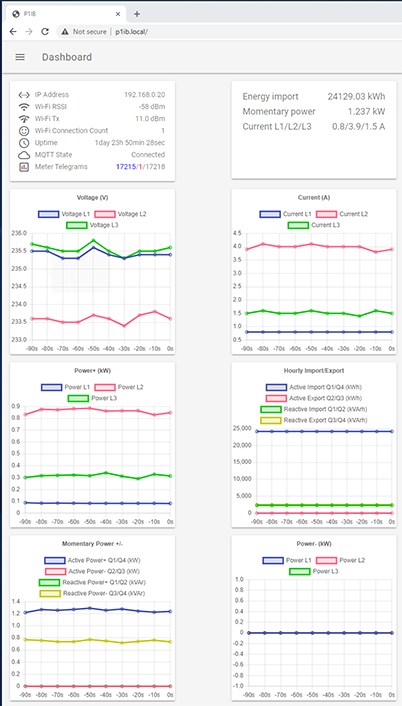
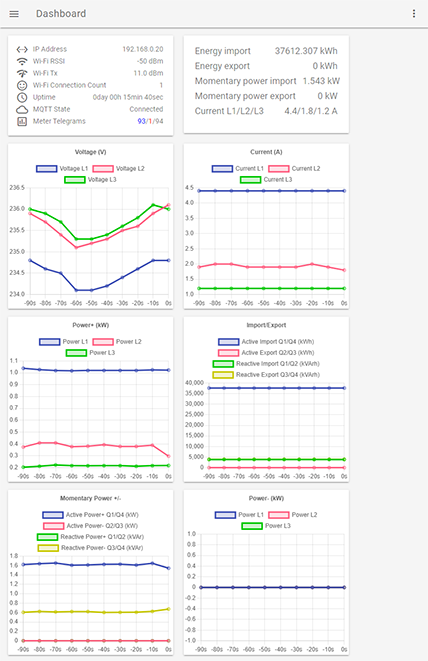
add homey app info. Update screenshots.

Changed region(s): [[0.0, 0.0, 0.9851, 1.0], [0.9552, 0.0, 0.9851, 0.0303]]

diff --git a/README.md b/README.md
@@ -3,16 +3,22 @@ P1IB (pronounced p-l-i-b) is a software (and hardware) designed to read and pars
 interface port (RJ12) and to send the result to a consumer service, for instance Home Assistant.
 
 ## Features
-- Web UI configuration.
-- Dashboard in web ui with realtime updated graphs for the majority of measurement points from the power meter.
+- Fully configurable via web UI.
+  - WiFi access point
+  - DHCP/static ip
+  - MQTT settings
+  - And lots more...
+- Dashboard in web UI with realtime updated graphs for the majority of measurement points from the power meter.
 - Supports both protocols that the Swedish meters use at this moment:
   - DLMS/COSEM AXDR/HDLC Mode E (Aidon).
-  - DLMS/COSEM ASCII Mode D (The other ones :).
+  - DLMS/COSEM ASCII Mode D (The other ones).
 - MQTT support.
 - Automatic sensor registration for Home Assistant (MQTT Auto Discovery).
 - Supports OTA firmware update via web ui (official builds fetched from this github repo).
 - Webservice with JSON response of meter data.
+- Reduced data mode (save band width, can be used for remote surveillance for instance).
 - Logging/debug through UDP to a remote computer and/or USB serial.
+- P1IB does not require any internet connection (with the exception for Over-the-air firwmare updates).
 
 ## Hardware
 The p1ib hardware comes with an RJ12 connector for connecting to the P1 HAN port of the power meter. It also includes an USB port.
@@ -24,6 +30,7 @@ Hardware can normally be bought via https://www.facebook.com/marketplace/item/28
 
 ![AMS and p1ib](images/meter.jpg?raw=true "AMS and p1ib")
 ![Hardware](images/hw_rev_d.jpg?raw=true "Hardware")
+![Case](images/case2.jpg?raw=true)
 
 ## Supported smart power meters
 Verified to work on the following meters:
@@ -54,6 +61,10 @@ Connect to Wi-Fi access point named "p1ib" without a password with your preferre
 
 4. Press the menu icon in top left corner, and enter the 'Settings' menu. Here it is possible to scan for your home Wi-Fi accesspoint (SSID), set an SSID password and enable other features.
 
+![Menu](images/menu.png?raw=true "Menu")
+
+
+
 5. Once you have entered your preferred settings, press the "Save & Restart"-button.
 
 6. Now you need to change back to your home Wi-Fi on your mobile phone/laptop. If you are using a device capable of mDNS (all computers more or less, probably not mobile devices) go to url http://p1ib.local/. If you are using a mobile device, you probably need to check in your home router for the IP the p1ib was assigned by your dhcp server, ie go to http://some-ip-number/
@@ -66,9 +77,31 @@ Connect to Wi-Fi access point named "p1ib" without a password with your preferre
 Note. Only chrome web browser is supported at this moment due to certain javascript dependencies.
 
 
-![Dashboard](images/dashboard.png?raw=true "Dashboard")
 
-![Menu](images/menu.png?raw=true "Menu")
+
+
+
+## Menues
+
+### Dashboard
+The dashboard provides an overview of the current state of the p1ib, and also graphs for some of the measurement points available.
+
+![Dashboard](images/dashboard.png?raw=true "Dashboard")
+### Settings
+
+![Settings](images/settings.png?raw=true "Settings")
+### Advanced Settings
+
+![Advanced Settings](images/settings_adv.png?raw=true "Advanced Settings")
+
+### Reduced Data Mode
+
+The reduced data mode can be activated if you want to save bandwidth. This is useful for example for remote power monitoring in your summer house or similar where there might be a bandwidth cost from your internet service provider.
+
+Each measurement point can be enabled or disabled, and there is also a hysteresis on each obis code to further limit data bandwidth.
+
+![Reduced Data Mode](images/reduced.png?raw=true "Reduced Data Mode")
+
 
 ## Powermeter prerequisite
 
@@ -101,15 +134,27 @@ The p1ib registers the sensors once in Home Assistant at each startup of the p1i
 ![HA Energy Dashboard](images/ha_energy.jpg?raw=true "HA Energy Dashboard")
 
 
-## Examples of automations in Home Assistant:
+### Examples of automations in Home Assistant:
 
 todo: add examples
 
+
+## Homey App
+
+P1IB supports homey! A homey app is available at https://homey.app/sv-se/app/nu.ahlner.p1ib/p1ib/.
+
+The app is developed by Erik Ahlner (whyz). Source code available at https://github.com/whyz/homey-p1ib.
+
+![Homey1](images/homey1.png?raw=true)
+
+
+![Homey2](images/homey2.png?raw=true)
+
 ## Plastic case
-You can find a 3d model (stl) under the "case-model"-directory, which can be 3dprinted.
+The case is a 3d-printed plastic case, with a CNC routed plexiglas piece for the LEDs.
 
 ![Case](images/case1.jpg?raw=true)
-![Case](images/case2.jpg?raw=true)
+
 ![Case](images/case_3dprinting.jpg?raw=true)
 ![Case](images/ledthingy.jpg?raw=true)
 
